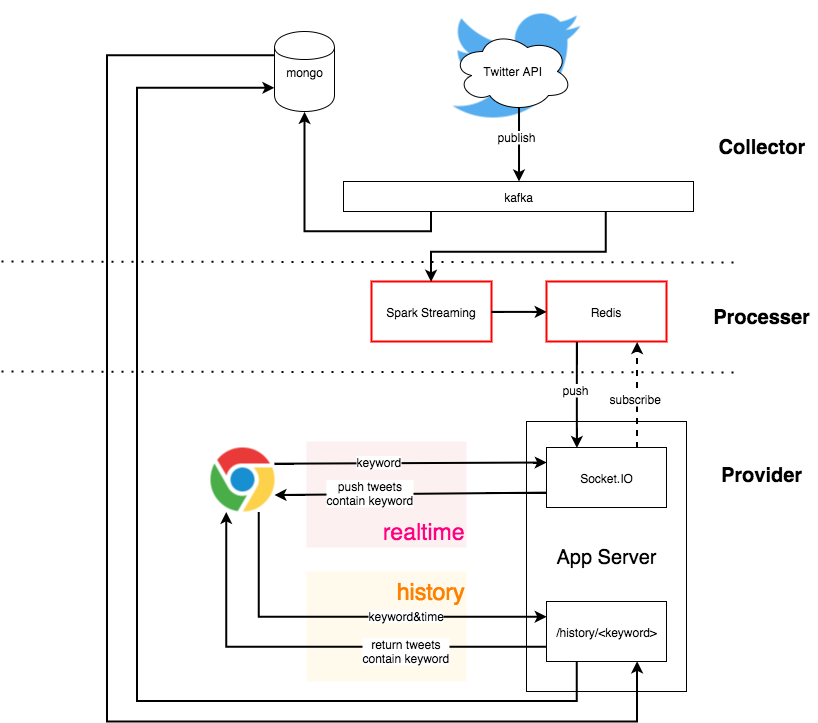
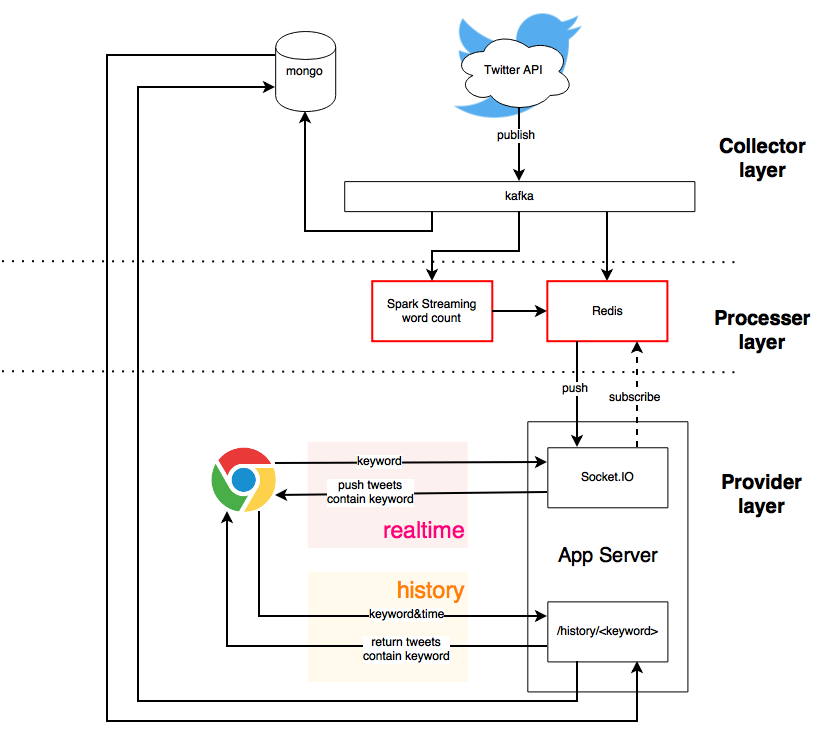
add spark streaming

diff --git a/Processor/spark_kafka_example.py b/Processor/spark_kafka_example.py
@@ -1,0 +1,56 @@
+#
+# Licensed to the Apache Software Foundation (ASF) under one or more
+# contributor license agreements.  See the NOTICE file distributed with
+# this work for additional information regarding copyright ownership.
+# The ASF licenses this file to You under the Apache License, Version 2.0
+# (the "License"); you may not use this file except in compliance with
+# the License.  You may obtain a copy of the License at
+#
+#    http://www.apache.org/licenses/LICENSE-2.0
+#
+# Unless required by applicable law or agreed to in writing, software
+# distributed under the License is distributed on an "AS IS" BASIS,
+# WITHOUT WARRANTIES OR CONDITIONS OF ANY KIND, either express or implied.
+# See the License for the specific language governing permissions and
+# limitations under the License.
+#
+
+"""
+ Counts words in UTF8 encoded, '\n' delimited text received from the network every second.
+ Usage: kafka_wordcount.py <zk> <topic>
+
+ To run this on your local machine, you need to setup Kafka and create a producer first, see
+ http://kafka.apache.org/documentation.html#quickstart
+
+ and then run the example
+    `$ bin/spark-submit --master local[2] --jars \
+      external/kafka-assembly/target/scala-*/spark-streaming-kafka-assembly-*.jar \
+      examples/src/main/python/streaming/kafka_wordcount.py \
+      localhost:2181 test`
+"""
+from __future__ import print_function
+
+import sys
+
+from pyspark import SparkContext
+from pyspark.streaming import StreamingContext
+from pyspark.streaming.kafka import KafkaUtils
+
+if __name__ == "__main__":
+    if len(sys.argv) != 3:
+        print("Usage: kafka_wordcount.py <zk> <topic>", file=sys.stderr)
+        exit(-1)
+
+    sc = SparkContext(appName="PythonStreamingKafkaWordCount")
+    ssc = StreamingContext(sc, 1)
+
+    zkQuorum, topic = sys.argv[1:]
+    kvs = KafkaUtils.createStream(ssc, zkQuorum, "spark-streaming-consumer", {topic: 1})
+    lines = kvs.map(lambda x: x[1])
+    counts = lines.flatMap(lambda line: line.split(" ")) \
+        .map(lambda word: (word, 1)) \
+        .reduceByKey(lambda a, b: a+b)
+    counts.pprint()
+
+    ssc.start()
+    ssc.awaitTermination()

diff --git a/Processor/spark_simple_example.py b/Processor/spark_simple_example.py
@@ -1,0 +1,49 @@
+#
+# Licensed to the Apache Software Foundation (ASF) under one or more
+# contributor license agreements.  See the NOTICE file distributed with
+# this work for additional information regarding copyright ownership.
+# The ASF licenses this file to You under the Apache License, Version 2.0
+# (the "License"); you may not use this file except in compliance with
+# the License.  You may obtain a copy of the License at
+#
+#    http://www.apache.org/licenses/LICENSE-2.0
+#
+# Unless required by applicable law or agreed to in writing, software
+# distributed under the License is distributed on an "AS IS" BASIS,
+# WITHOUT WARRANTIES OR CONDITIONS OF ANY KIND, either express or implied.
+# See the License for the specific language governing permissions and
+# limitations under the License.
+#
+
+"""
+ Counts words in UTF8 encoded, '\n' delimited text received from the network every second.
+ Usage: network_wordcount.py <hostname> <port>
+   <hostname> and <port> describe the TCP server that Spark Streaming would connect to receive data.
+
+ To run this on your local machine, you need to first run a Netcat server
+    `$ nc -lk 9999`
+ and then run the example
+    `$ bin/spark-submit --master local[2] examples/src/main/python/streaming/network_wordcount.py localhost 9999`
+"""
+from __future__ import print_function
+
+import sys
+
+from pyspark import SparkContext
+from pyspark.streaming import StreamingContext
+
+if __name__ == "__main__":
+    if len(sys.argv) != 3:
+        print("Usage: network_wordcount.py <hostname> <port>", file=sys.stderr)
+        exit(-1)
+    sc = SparkContext(appName="PythonStreamingNetworkWordCount")
+    ssc = StreamingContext(sc, 1)
+
+    lines = ssc.socketTextStream(sys.argv[1], int(sys.argv[2]))
+    counts = lines.flatMap(lambda line: line.split(" "))\
+                  .map(lambda word: (word, 1))\
+                  .reduceByKey(lambda a, b: a+b)
+    counts.pprint()
+
+    ssc.start()
+    ssc.awaitTermination()

diff --git a/Processor/spark_processor.py b/Processor/spark_processor.py
@@ -1,0 +1,41 @@
+#!/usr/bin/python
+#-*-coding:utf-8 -*-
+
+import sys
+import threading, logging, time
+import pickle
+import uniout
+import redis
+
+from kafka.client import KafkaClient
+from kafka.consumer import SimpleConsumer
+
+from pyspark import SparkContext
+from pyspark.streaming import StreamingContext
+from pyspark.streaming.kafka import KafkaUtils
+from operator import add
+
+reload(sys)  
+sys.setdefaultencoding('utf8')
+redis = redis.StrictRedis(host='localhost', port=6379, db=0)
+
+def publishToRedis(count):
+    redis.publish("word_count", count.collect())
+
+def main():
+    sc = SparkContext(appName="PythonStreamingKafkaWordCount")
+    ssc = StreamingContext(sc, 1)
+
+    zkQuorum = "localhost:2181"
+    topic = "twitter_raw"
+    kvs = KafkaUtils.createStream(ssc, zkQuorum, "spark-streaming-consumer", {topic: 1})
+    lines = kvs.map(lambda x: pickle.loads(x[1].decode('utf-8'))['text'])  # fetch the text
+    count = lines.map(lambda line: len(line.split())).reduce(add)  # split into words and count
+    count.foreachRDD(publishToRedis)  # publish to redis
+    count.pprint()
+
+    ssc.start()
+    ssc.awaitTermination()
+
+if __name__ == "__main__":
+    main()

diff --git a/Provider/no_sentiment_with_history/application.py b/Provider/no_sentiment_with_history/application.py
@@ -78,6 +78,19 @@ def handle_realtime_connect(keyword):
             print e
             return
 
+### api used to get wordcount from spark streaming ###
+@application.route('/wordcount', methods=['GET']) # TODO: change to socket.io and bind d3
+def getWordCount():
+    pubsub = redis.pubsub()
+    pubsub.subscribe('word_count')
+    counts = pubsub.listen()
+    while True:
+        try:
+            count = counts.next()
+            print count
+        except Exception, e:
+            raise e
+
 def data_filter(tweet):
     raw_coordinates = tweet.get('place').get('coordinates')
     if len(raw_coordinates)==1:
@@ -92,7 +105,6 @@ def data_filter(tweet):
         "text": tweet.get('text'),
         "lon": lon,
         "lat": lat,
-        # "word_count": tweet.get("word_count")
     }
     # print data
     return data
